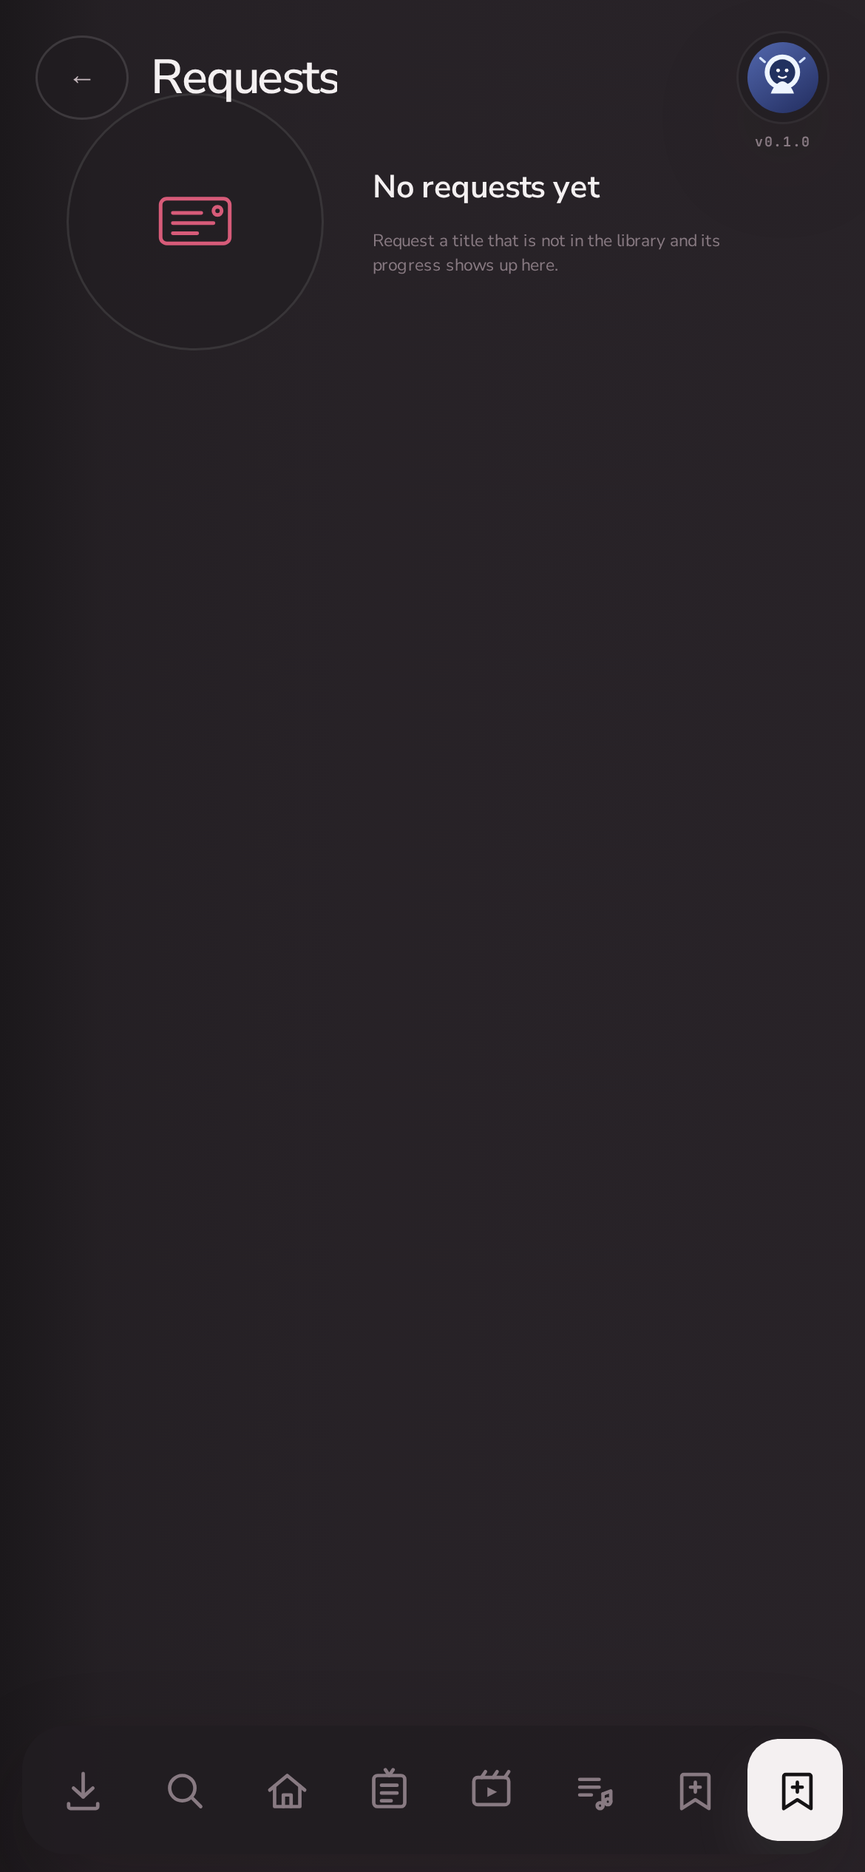
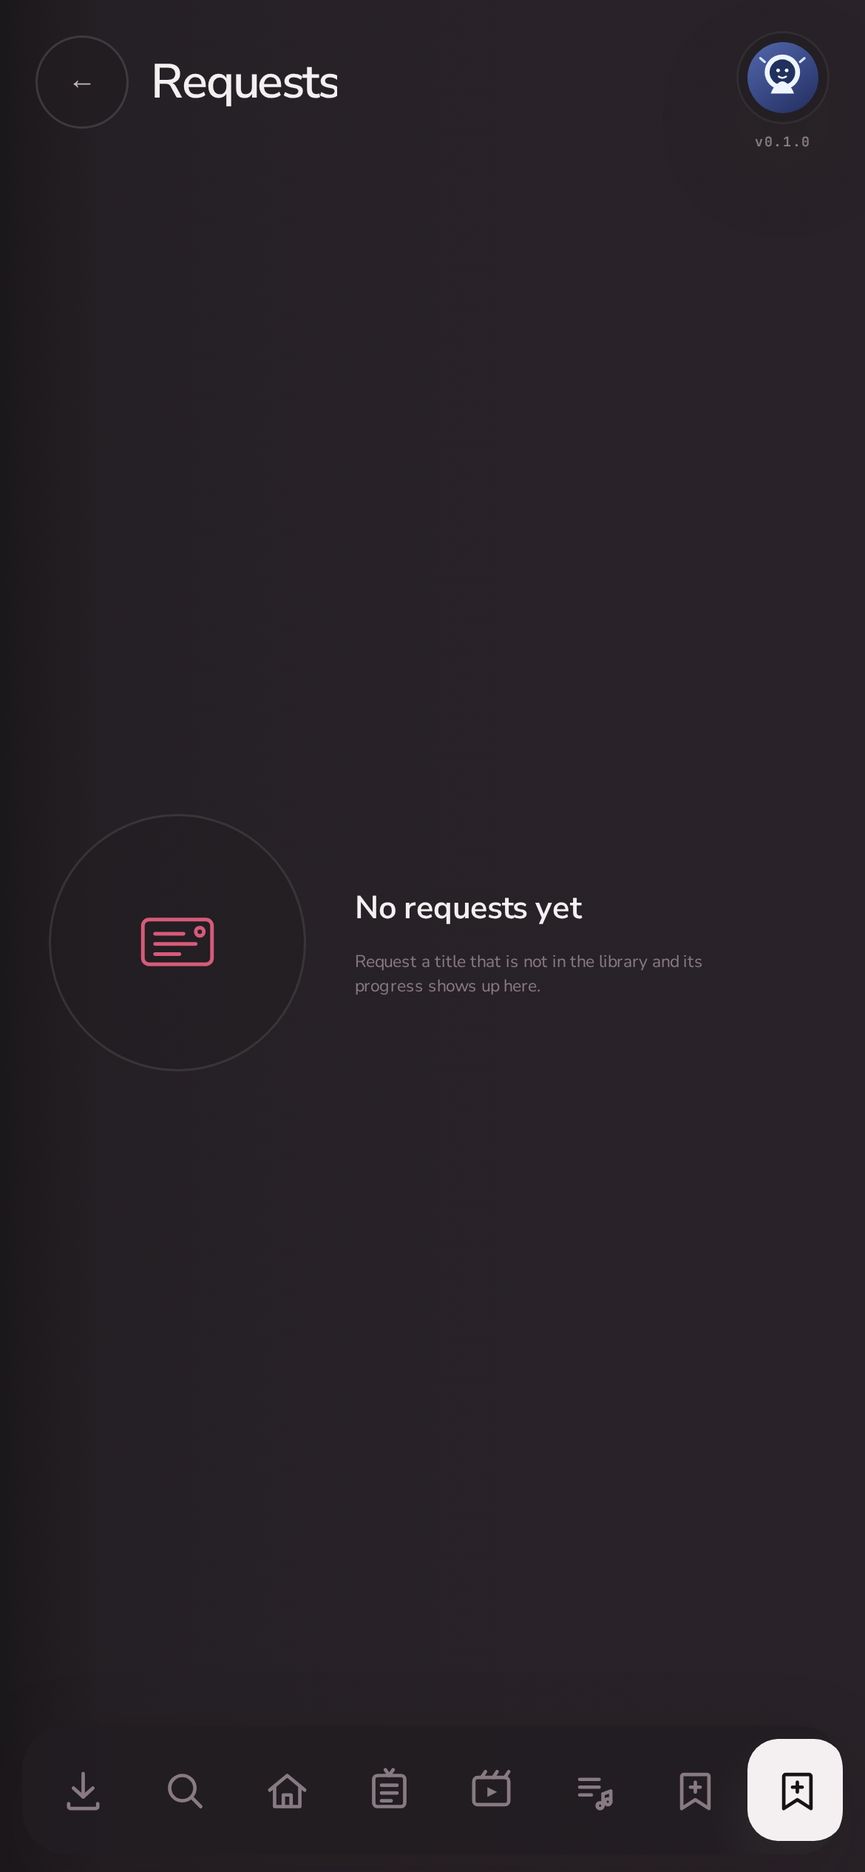
fix(web): Downloads, Watchlist and Requests fill the page on a phone (row 209) (#340)
Phone layouts (up to 760 px) kept Home's 62% column for the Downloads, Watchlist and Requests panels, and the Downloads storage line sat under the page header. Both now span the page and start below the header.

Tests: new `scripts/nav-mobile-stage-e2e.mjs` (28 checks at 390 and 600 px, both themes); `pnpm test` 1059 passed. Mobile parity references for the three screens re-captured.

Fragments reconcile rows 209, 801, 860, 861, 9501, 9502 and 9601 with their merged PRs.

Merge-Train: yes

Train-PR: 340

Train-Head: 582f69a1a075d9c75e3fc1e657503e3dcde5ded7

diff --git a/clients/tv-web/web/src/styles/global.css b/clients/tv-web/web/src/styles/global.css
@@ -10899,6 +10899,18 @@ html:is([data-platform="android-tv"], [data-platform="tv-vidaa"]) .player-qualit
   padding: clamp(24px, calc(3 * var(--vw)), 58px);
 }
 
+/* On a phone the Downloads panel and the state panels are the whole page (they keep Home's 62% column on larger
+   layouts), and Downloads' storage line starts below the page header. */
+@media (max-width: 760px), (max-width: 920px) and (max-height: 500px) and (pointer: coarse) {
+  .app-main [data-page-id] .tv-library-grid-panel,
+  .app-main .tv-downloads-panel {
+    width: 100%;
+  }
+  .app-main .tv-downloads-panel {
+    padding: var(--page-body-top) var(--mobile-page-gutter) calc(var(--mobile-nav-height) + 12px);
+  }
+}
+
 .tv-downloads-offline-badge {
   padding: 0.2rem 0.6rem;
   border-radius: 999px;

diff --git a/TASKS.md b/TASKS.md
@@ -69,7 +69,7 @@ Rules for editing: do not edit this file in a PR; add `tasks.d/<row-number>.md` 
 | # | Task | Status | Picked up by | Notes |
 |---|------|--------|--------------|-------|
 | 800 | Epic: one enforced page layout on every client (PageLayout, PageHeader, PageActions, one ActionPill, ScrollArea with edge fades, Loading/Empty/Error states, spacing tokens, TV focus ring and D-pad order) | in progress: spec merged (#194, #202); web W0 to W6 merged, W7 in the train; Android A0 to A7 merged; other clients open | page-layout | Owner order after the library Filters button was restyled to match the Calendar (Android #154). Owner decisions 7 Oct: the reference action pill is web's library Filters as of 30 Sep 2026 (the .tv-filter-launcher tile at commit 54224f36, spec section 2.1) on every client; a focus ring with no fill (white in dark, near-black ink in light, 8 Oct Q11); Customise Home moves into the header row; the header and Back always show while loading or on error. Coordinator defaults (owner may override): Calendar and Folders keep a full-bleed body; the rail-panel fade is the single edge fade; Roborazzi; exemptions kept, Household gets a standard Back. 8 Oct: the header row grows to the tile height with items centred on it (Q9); Back and period arrows stay round (Q10); the drawer-open state keeps its ink fill (Q12). Rows 801-811. Changing the look of a shared layout component needs an explicit owner request naming the reference (spec section 7.4). Reconciled 2026-10-08. Web: W0 #196, W1 #247, W2 #254, W3 #262, W4 #274, W5 #279, W6 #287; W7 is PR 289 (labelled ready). Android: A0 #217 to A7 #277, see row 802. Open: web W8 (legacy frame removed, row 801), Apple, Roku, Fire TV, Xbox and Harmony adoption (rows 804 to 809), VIDAA and webOS verification (rows 810, 811), Household standard Back (Q8). |
-| 801 | Web: migrate every page to the shared page layout (spec PRs W1-W8) | in progress: W1 to W7 merged; skeleton loading on every page (owner ruling Q14) in PR; W8 (legacy frame removed) follows | Unassigned | Parent: 800. Shared primitives in clients/tv-web/web/src/components/shell, tokens in styles/page-layout.css. Side-panel and action pills render in the shell action column (Q1b); Customise Home lives in Settings (Q3b); loading is a skeleton, never a centred loading screen (Q14). |
+| 801 | Web: migrate every page to the shared page layout (spec PRs W1-W8) | done (web): W1 to W8 merged (#247, #254, #262, #274, #287, #279, #289, #308), skeleton loading #306 | Unassigned | Parent: 800. Shared primitives in clients/tv-web/web/src/components/shell, tokens in styles/page-layout.css. Side-panel and action pills render in the shell action column (Q1b); Customise Home lives in Settings (Q3b); loading is a skeleton, never a centred loading screen (Q14). |
 | 802 | Android phone and TV: page components in core-designsystem and every screen migrated (spec PRs A0-A7) | done on Android: A0 #217, A1 #241, A2 #258, A3 #260, A4 #265, A5 #266, A6 #268, shell action column #269, card focus tokens #272, Customise Home in Settings #249, A7 (scaffold adapter and legacy slots deleted, every page renders through PlayarrPageLayout with a registry id; guards tightened). Open: Household standard Back (Q8) waits for the web Household change so native and web references stay equal. | Android layout worker | Parent: 800. Fixes found by the audit: the phone header pill ignores its icon (Playlists Create draws the Filters glyph); header pills have no focus ring; three loading/error families; 154.dp literals; music detail TV inset 118 dp. Coordinate with the focus, calendar, parity and player workers; page chrome only. Changing the look of a shared layout component needs an explicit owner request naming the reference (spec section 7.4). |
 | 803 | Enforcement: web guards run on PRs (W0), page layout and CSS source guards, header-band parity at 0 px in CI, Android source guards and Roborazzi goldens, owner-request gate for shared layout look files | in progress: web done (guards in `lint`: page registry with an empty ratchet, page layout audit with no frame baseline, CSS guard, header and pill parity job `web-layout-parity`, owner-request gate); Android source guards and goldens remain | Unassigned | Parent: 800. Changing the look of a shared layout component needs an explicit owner request naming the reference (spec section 7.4). |
 | 804 | iOS: adopt the shared page anatomy (one page layout, header, ordered action slot, one action pill, scroll area with edge fades, standard states, tokens, TV focus ring and D-pad order) with a source guard and a header-band diff | pending | Unassigned | Parent: 800. Follow docs/design/page-layout.md sections 2-7 by analogy with Android (4.2, 7.2); match the web reference pill in both themes. Changing the look of a shared layout component needs an explicit owner request naming the reference (spec section 7.4). |
@@ -81,11 +81,11 @@ Rules for editing: do not edit this file in a PR; add `tasks.d/<row-number>.md` 
 | 810 | VIDAA: verify the web page-layout migration on the platform (it runs the web bundle) | pending | Unassigned | Parent: 800. Check that no html[data-platform] rule outside styles/page-layout.css touches header classes; header-band capture on the device. Changing the look of a shared layout component needs an explicit owner request naming the reference (spec section 7.4). |
 | 811 | webOS: verify the web page-layout migration on the platform (apps/tv-webos imports web/src) | pending | Unassigned | Parent: 800. As row 810. Changing the look of a shared layout component needs an explicit owner request naming the reference (spec section 7.4). |
 | 912 | Web: UP/DOWN between stacked rails is geometric again (Home rails picked the same index and scrolled the target rail to match) | done: merged (PR 228, 234) | web-rail-nav | Root cause: `focusWithinHomeRails` chose the target card by index (since PR 27, commit 0f971b3b) and the reveal then scrolled that rail to match. Now `pickNearestCardByCentre` uses on-screen centres, and the rail scrolls only to unclip. Rule written in docs/design/page-layout.md section 5.6 for native clients. Tests: `trackNavigation.test.ts`, `scripts/rail-geometry-e2e.mjs` (Home and series detail, Up and Down, dark and light; the detail cases failed before the follow-up fix). Reconciled 2026-10-08: PRs 228 and 234 merged: `pickNearestCardByCentre` picks the on-screen nearest card and the rail scrolls only to unclip; `scripts/rail-geometry-e2e.mjs` covers Home and series detail, Up and Down, dark and light (failed on main, green after); vitest 899 passed. |
-| 860 | Web: side panels close as the exact reverse of opening on every close path | in review: PR open, `ready` | web-panels | Parent: 800. Owner request 2026-10-08: closing a right-side panel (Filters, Calendar link, Create playlist, playback settings, download quality, context menus) was abrupt. The shared `Drawer` now places a frozen inert copy over the page when it unmounts (Close button, Back or Escape, scrim, launcher toggle, route change all end up there) and plays `drawer-out`, the opening keyframes reversed with the same duration (including the TV override) and the mirrored easing `cubic-bezier(0.7, 0, 0.84, 0)`. The copy goes on `animationend` with a timer fallback; focus returns to the launcher afterwards; prefers-reduced-motion closes at once. Evidence: vitest `drawerClose.test.ts` (closing state, timer fallback, reduced motion, focus return, keyframe and easing mirror), Playwright `scripts/drawer-close.mjs` (samples both animations through the Web Animations API at 13 points and asserts closing at t equals opening at T minus t, plus real-time removal and focus return) in TV, desktop and mobile layouts, both themes. |
-| 861 | Web: every title year is the release year, never the library added date | in review: PR open, `ready` | web-release-year | Owner ruling 2026-10-08. Source of the confusion: the Library preview panel and card meta lines, the Downloads preview and the admin work detail built the year from `added_at` (Library with local-time `getFullYear`; Downloads and admin as a fallback when `release_date` was empty). All now use one helper, `releaseYear()` / `yearOfDate()` in `lib/workYear.ts` (UTC); the local copies in WorkDetail and Downloads and the raw `getFullYear` calls in Search and Discovery are gone. No release date means no year is shown. The calendar's legacy snapshot (servers without `snapshot`) no longer uses an episode's air year as the series year. Guards: `yearSourceAudit.test.ts` (no year from `added_at`, no local helper copies), `workYear.test.ts`, `calendarActions.test.ts`, admin `releaseYear.test.ts`. Parity: a fresh fixture capture of every web screen differs from docs/parity/web only by noise (Movies and Series 0.00% on TV), because no committed reference shows a title year, so no reference changed. |
-| 9501 | Web: one focus style system. Controls get the single theme ring (white in dark, ink in light) with no fill, glow or scale (audit S1, S5, K2, B4, R9); media cards get the pinned shadow plus lift on FOCUS, playlists and stacked collages as one unit; the competing ring systems are deleted; music artist page layout fixed (R6); guards added | in review: PR open, labelled ready when local checks are green | web focus worker | Parent: 800. Owner request 8 Oct (Q13): "I want to undo the white outline - it should just be a soft shadow plus the card jump for media items.", "I mean focus state, not hover", "It works on hover on the individual items; but not focus, and not the stacked items." Root cause of the playlist and stacked gap: the remote-mode neutralisation reset every title card that lacked the virtual marker, which includes natively focused cards outside the library grid; it now needs a live marker (`body[data-remote-marker]`, cleared when the marked card leaves). One class `media-card` plus tokens in `styles/page-layout.css`; ring from the single global `:focus-visible` rule. Guards: `styles/focusStyle.test.ts`, `scripts/focus-style-e2e.mjs`. Layout pins `action-pill-focus.png` re-captured (focus no longer scales). Not covered: native clients (parity on hold), webOS/Tizen on device. |
-| 9502 | Web: music artist page mini player overlapped the track list's left edge by about 27 px (follow-up to row 9501, owner bundle "Music artist page") | in review: PR open | web focus worker | Mini player left edge now follows the nav clearance and its width is capped at 38% of the viewport minus that offset, so it ends before the panel starts. Measured 1920x1080 (mini right 641, list 730) and 1280x720 (473 vs 486), both themes. |
-| 9601 | Web: one edge fade for every scroller, from first paint, soft on the right, in both themes, with the focused card's shadow unclipped (audit S2, S3, K6, R2) | in progress: PR open. One mask on the scroller (page-layout.css) replaces the five fade implementations; `useScrollEdges` measures before first paint; rails carry vertical headroom inside the scroller; Playwright guard `scripts/edge-fade-e2e.mjs` (profile, first paint, no box, unclipped shadow) runs in the web layout parity job | Unassigned | Parent: 801. Owner request 2026-10-08. Supersedes the reverted #286. |
+| 860 | Web: side panels close as the exact reverse of opening on every close path | done: merged #294 | web-panels | Parent: 800. Owner request 2026-10-08: closing a right-side panel (Filters, Calendar link, Create playlist, playback settings, download quality, context menus) was abrupt. The shared `Drawer` now places a frozen inert copy over the page when it unmounts (Close button, Back or Escape, scrim, launcher toggle, route change all end up there) and plays `drawer-out`, the opening keyframes reversed with the same duration (including the TV override) and the mirrored easing `cubic-bezier(0.7, 0, 0.84, 0)`. The copy goes on `animationend` with a timer fallback; focus returns to the launcher afterwards; prefers-reduced-motion closes at once. Evidence: vitest `drawerClose.test.ts` (closing state, timer fallback, reduced motion, focus return, keyframe and easing mirror), Playwright `scripts/drawer-close.mjs` (samples both animations through the Web Animations API at 13 points and asserts closing at t equals opening at T minus t, plus real-time removal and focus return) in TV, desktop and mobile layouts, both themes. |
+| 861 | Web: every title year is the release year, never the library added date | done: merged #297 | web-release-year | Owner ruling 2026-10-08. Source of the confusion: the Library preview panel and card meta lines, the Downloads preview and the admin work detail built the year from `added_at` (Library with local-time `getFullYear`; Downloads and admin as a fallback when `release_date` was empty). All now use one helper, `releaseYear()` / `yearOfDate()` in `lib/workYear.ts` (UTC); the local copies in WorkDetail and Downloads and the raw `getFullYear` calls in Search and Discovery are gone. No release date means no year is shown. The calendar's legacy snapshot (servers without `snapshot`) no longer uses an episode's air year as the series year. Guards: `yearSourceAudit.test.ts` (no year from `added_at`, no local helper copies), `workYear.test.ts`, `calendarActions.test.ts`, admin `releaseYear.test.ts`. Parity: a fresh fixture capture of every web screen differs from docs/parity/web only by noise (Movies and Series 0.00% on TV), because no committed reference shows a title year, so no reference changed. |
+| 9501 | Web: one focus style system. Controls get the single theme ring (white in dark, ink in light) with no fill, glow or scale (audit S1, S5, K2, B4, R9); media cards get the pinned shadow plus lift on FOCUS, playlists and stacked collages as one unit; the competing ring systems are deleted; music artist page layout fixed (R6); guards added | done: merged #307 | web focus worker | Parent: 800. Owner request 8 Oct (Q13): "I want to undo the white outline - it should just be a soft shadow plus the card jump for media items.", "I mean focus state, not hover", "It works on hover on the individual items; but not focus, and not the stacked items." Root cause of the playlist and stacked gap: the remote-mode neutralisation reset every title card that lacked the virtual marker, which includes natively focused cards outside the library grid; it now needs a live marker (`body[data-remote-marker]`, cleared when the marked card leaves). One class `media-card` plus tokens in `styles/page-layout.css`; ring from the single global `:focus-visible` rule. Guards: `styles/focusStyle.test.ts`, `scripts/focus-style-e2e.mjs`. Layout pins `action-pill-focus.png` re-captured (focus no longer scales). Not covered: native clients (parity on hold), webOS/Tizen on device. |
+| 9502 | Web: music artist page mini player overlapped the track list's left edge by about 27 px (follow-up to row 9501, owner bundle "Music artist page") | done: merged #324 | web focus worker | Mini player left edge now follows the nav clearance and its width is capped at 38% of the viewport minus that offset, so it ends before the panel starts. Measured 1920x1080 (mini right 641, list 730) and 1280x720 (473 vs 486), both themes. |
+| 9601 | Web: one edge fade for every scroller, from first paint, soft on the right, in both themes, with the focused card's shadow unclipped (audit S2, S3, K6, R2) | done: merged #312 | Unassigned | Parent: 801. Owner request 2026-10-08. Supersedes the reverted #286. |
 
 ## Active: QR sign-in code renewal (2026-10-07)
 
@@ -306,7 +306,7 @@ One shared page header, filters drawer and URL-held state on every page. Web and
 | 200 | Epic: shared page shell + Release Calendar redesign (web, Android, other clients) | in progress: web and Android done; Apple, Roku, Xbox and Harmony open | Unassigned | Epic for the shared page shell and Release Calendar redesign. Delivered: web PR 164, PR 168, PR 195; Android PR 167, PR 198. Open: rows 205, 209, 216, 219, 211-214, 223. |
 | 205 | Server: calendar entries carry server-computed actions (open/play, request, watchlist) and an optional `group=series_day` parameter, so clients stop guessing request snapshots | in progress: server and web client merged; live web check done on the fixture, regional rollout check owed | Unassigned | Parent: 200. `GET /api/v1/calendar` entries now carry `snapshot` (post it unchanged to request/watchlist) and `actions[]` resolved per caller with the discovery logic (library access, household, `can_request`, provider, existing request, watchlist state); `group=series_day` folds same-day episodes into one entry with `members[]`. Covered by API tests for admin, a user without `can_request`, library titles, watchlist state and grouping. Web (Calendar page) renders Play/Resume, Open, Request and Watchlist from the entry `actions[]` and posts `snapshot` unchanged; a disabled action shows the server's reason; servers that send no `actions` keep the earlier client-side behaviour. The web client keeps its own local-day grouping and does not request `group=series_day`. Unit tests cover the action plan and the API client. Live web check 2026-10-07 against the fixture server with the web adoption branch (desktop and TV layouts): the unaired Sample Series 1 episode (3 days ahead) shows exactly the server's actions, Play, Open series and Add to watchlist (no Request, because the series is in the library); Watchlist posts the server's snapshot unchanged (resolve, then add, then remove by title key) and Play opens the player for the server's media file. The Request path was checked with a synthetic calendar response carrying a request action (the fixture has no title outside the library): the page showed Request and posted the snapshot unchanged to `/api/v1/discover/request`. Evidence: screenshots and request logs in the worker's scratch directory (not committed). Regional servers deploy automatically on merge; no regional live check (no test account). Server fix 2026-10-07 (branch fix/calendar-play-unaired): the live check found `GET /api/v1/calendar` offering `play` for an unaired episode, pointing at another episode's file (the series-level next-up file). `actions[]` now offers Play and Resume only when that exact episode or film has its own library file, and the media file id is that file's; otherwise Open, Watchlist or Request as appropriate. A `group=series_day` entry is judged by its first episode. Covered by API tests for an unaired episode, an aired episode with and without a file, a series outside the library and grouped members. Fixture re-check: see the PR. Merge note: this fragment extends the row text of PR #55 (same file); whichever lands second should keep both paragraphs. |
 | 216 | Web: Calendar link: one call returns the existing or a new link; the token is stored sealed on the server so the secret URL can be shown again on any device | in progress: server and web client merged; live web check done on the fixture, regional rollout check owed | Unassigned | Parent: 200. `POST /api/v1/calendar/feed` returns the existing link (200) or creates one (201); `?rotate=true` replaces it. Migration 0076 adds `token_encrypted` (ChaCha20-Poly1305 under a key derived from the node identity); rows created earlier have no sealed copy and are replaced on first request. Tests: repository, round trip, rotate, revoke, legacy and foreign-key rows. Web link panel makes one call: it reads the feed status, then POSTs without `rotate` only when the server reports `link_available` or no link exists, and rotates (`?rotate=true`) only on Reset; a server that predates `link_available` is never POSTed to on open. Unit tests cover the open plan, the one-call flow and rotate-on-reset. Live web check 2026-10-07 against the fixture server: first open does a status GET then one POST (201, link created); reopening the panel, reloading and opening on a second browser profile each did a status GET and one POST without `rotate` (200) and showed the same URL; only the confirmed Reset sent `POST /api/v1/calendar/feed?rotate=true` (201) and produced a new URL. Evidence: screenshots and request logs in the worker's scratch directory (not committed). Regional servers deploy automatically on merge; no regional live check (no test account).  |
-| 209 | Web: Downloads page is not reachable in headless browsers (storage capability), so its header wrap was verified on Settings; verify Downloads on a device with storage support | pending | Unassigned | Parent: 200. |
+| 209 | Web: Downloads page is not reachable in headless browsers (storage capability), so its header wrap was verified on Settings; verify Downloads on a device with storage support | done (web): Downloads reaches 390 and 600 px phone layouts in the fixture | Unassigned | Parent: 200. Reconciled 2026-10-09: the fixture serves the storage capability, so Downloads, Watchlist and Requests were checked on phone widths (390 and 600 px, both themes). The state panel kept Home's 62% column and Downloads' storage line sat under the header; both now span the page and start below it. Guard: `scripts/nav-mobile-stage-e2e.mjs` (28 checks, run with the other nav e2e scripts). `docs/parity/web/mobile` Downloads, Watchlist and Requests references re-captured. Real-device storage check is native-only and on hold. |
 | 219 | iOS: shared page header + filters sheet, Release Calendar parity (grouping, agenda master-detail, subscription sheet) (renumbered from a second row 210) | done: merged (PR 80) | parity-ios | Parent: 200. Builds on the parked Apple calendar commits. Reconciled 2026-10-08: PR 80 merged: Calendar tab with Agenda, Week and Month, Filters sheet and subscription sheet; compiled by the Apple parity workflow. Pixel parity is tracked in row 484. |
 | 211 | tvOS: shared page header + filters panel, Release Calendar parity | pending | Unassigned | Parent: 200. |
 | 212 | Roku: shared page header + filters panel, Release Calendar parity | pending | Unassigned | Parent: 200. |

diff --git a/CHANGELOG.md b/CHANGELOG.md
@@ -13,6 +13,7 @@ uses [Semantic Versioning](https://semver.org/spec/v2.0.0.html).
 
 ### Fixed
 
+- Downloads, Watchlist and Requests now fill the page on a phone instead of keeping Home's 62% column, and the Downloads storage line starts below the page header.
 - Web: QR sign-in retries network blips and server errors silently (2 s doubling to 30 s, keeping the current code while it is valid) instead of showing an error with Try again; only denial or an unexpected failure shows it.
 - Web: live update frames (and resyncs, reconnect gaps and fallback polls) now also drop the matching stored query copies immediately, so screens opened from the stale-while-revalidate cache after a change on another device never show an old copy first.
 - Storybook: the theme toolbar now drives the whole preview (canvas, docs page and its canvas toolbar use the app `--bg` and surface tokens), and the Storybook manager defaults to dark.
